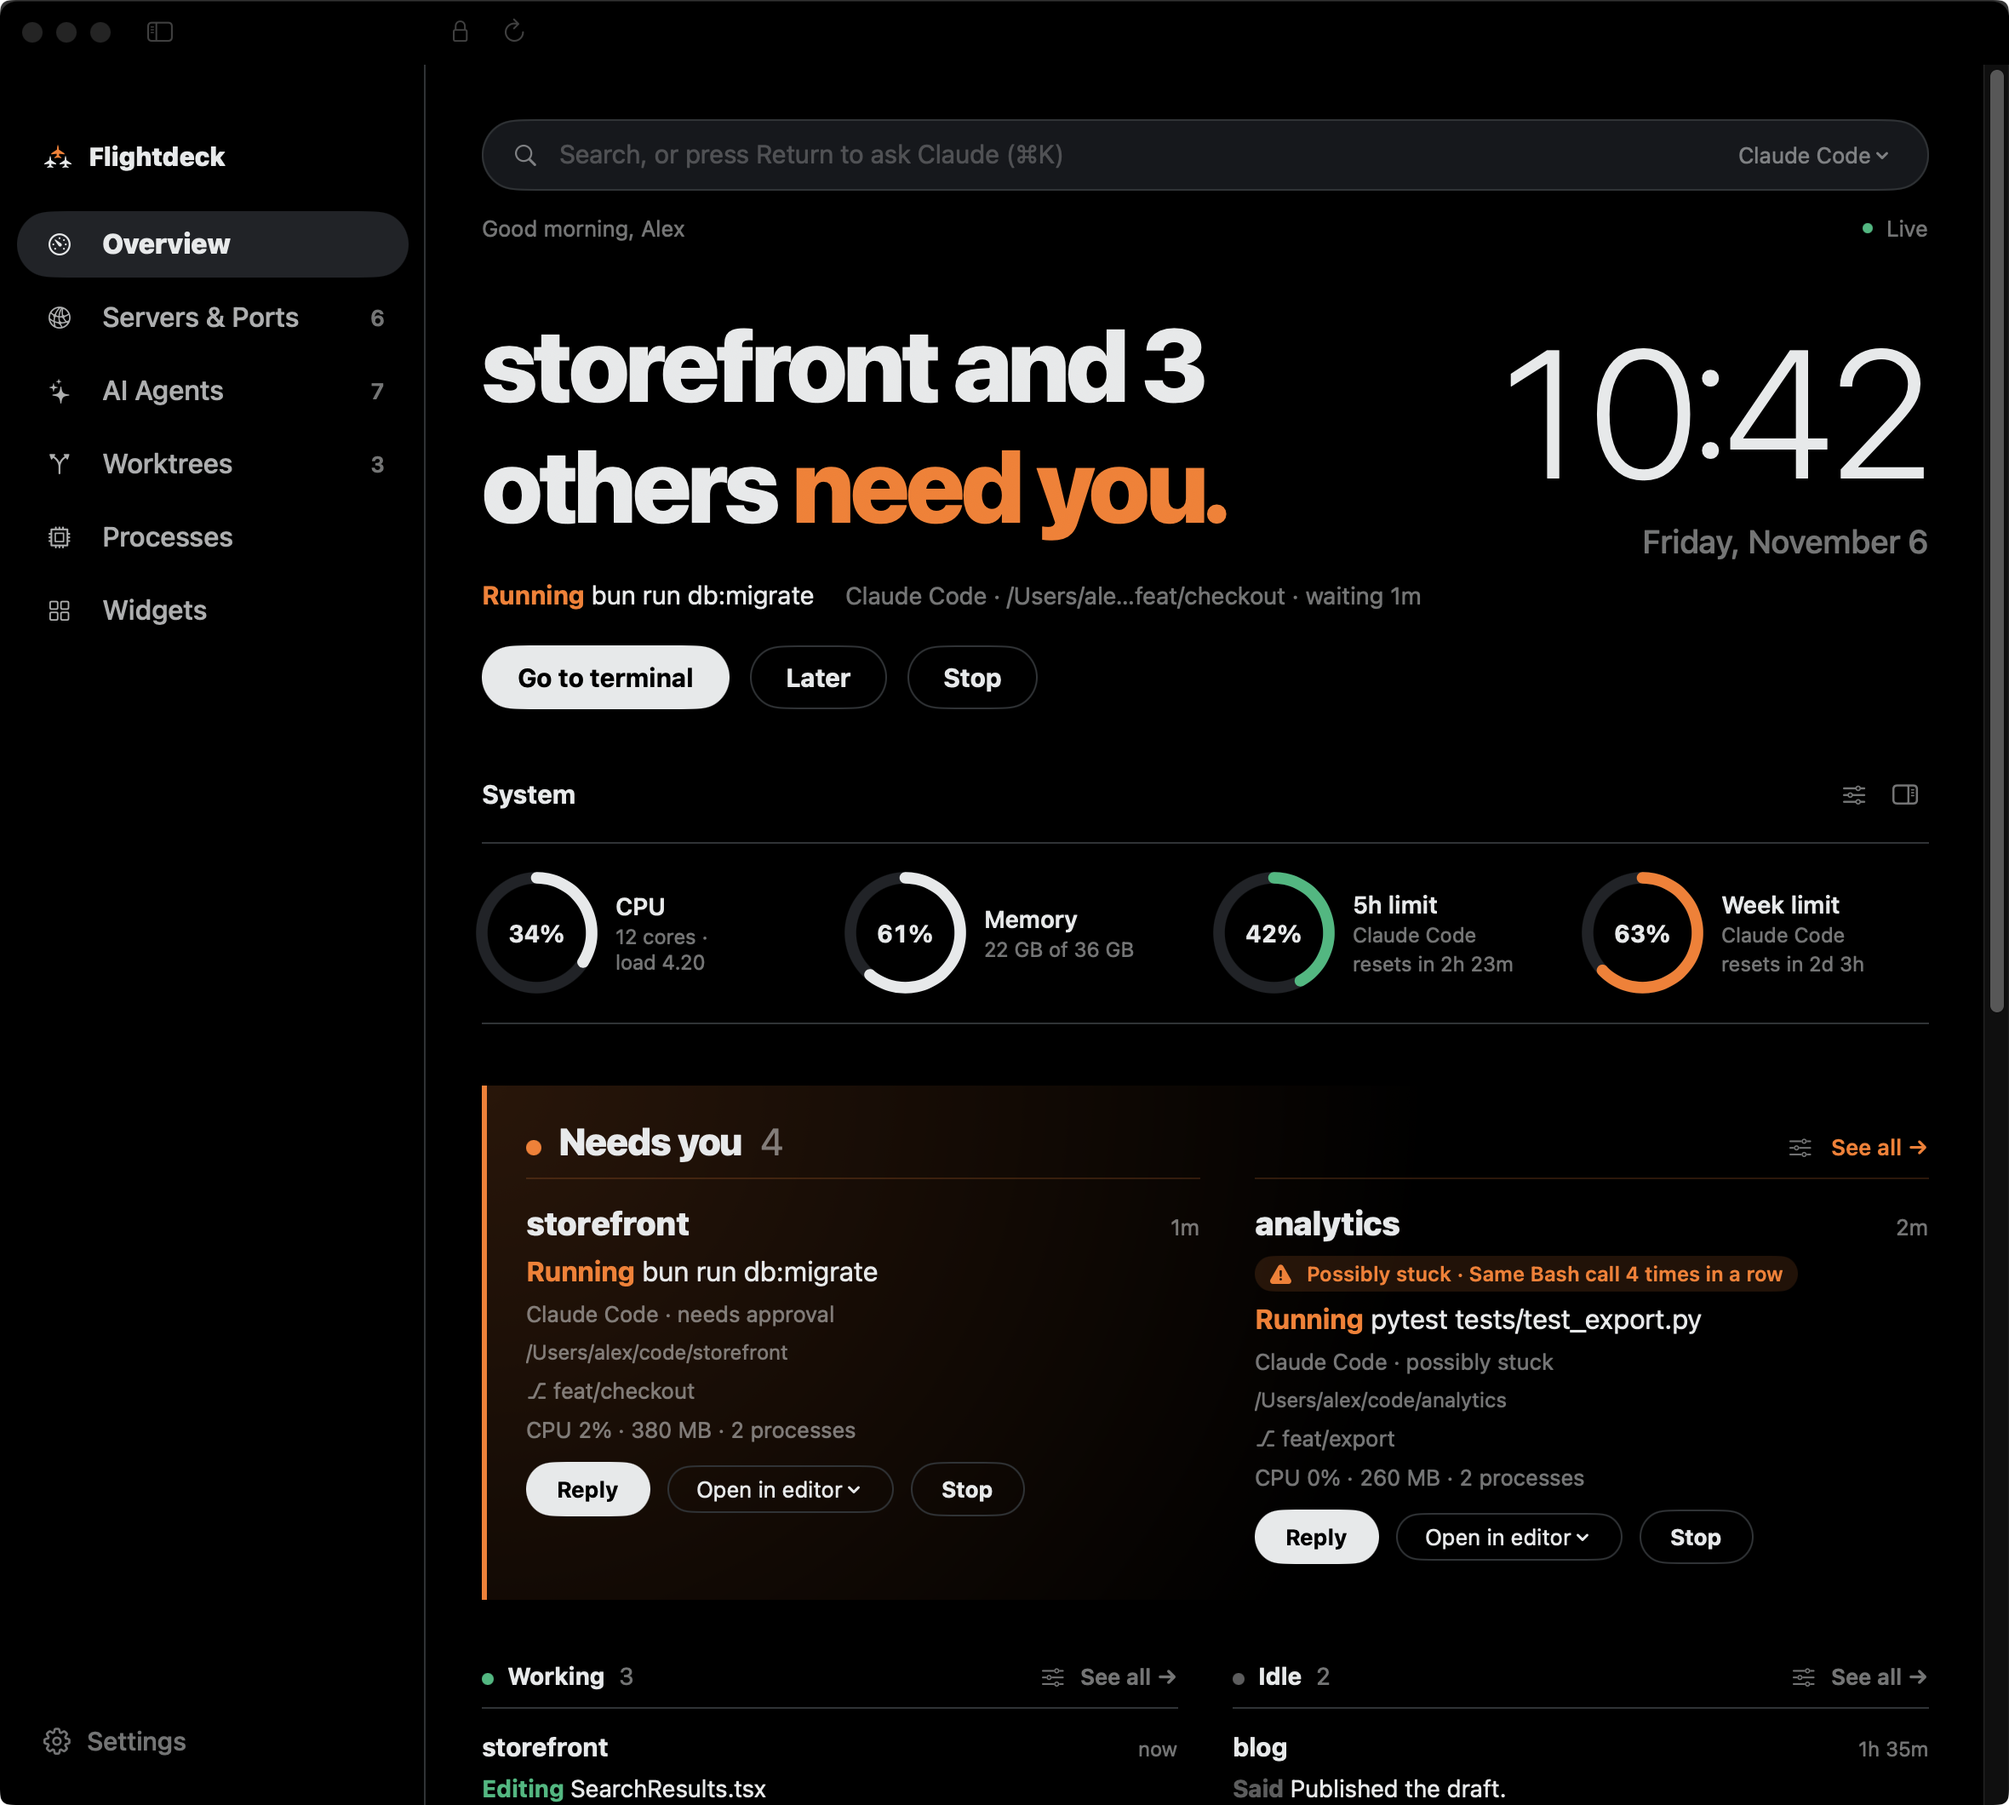
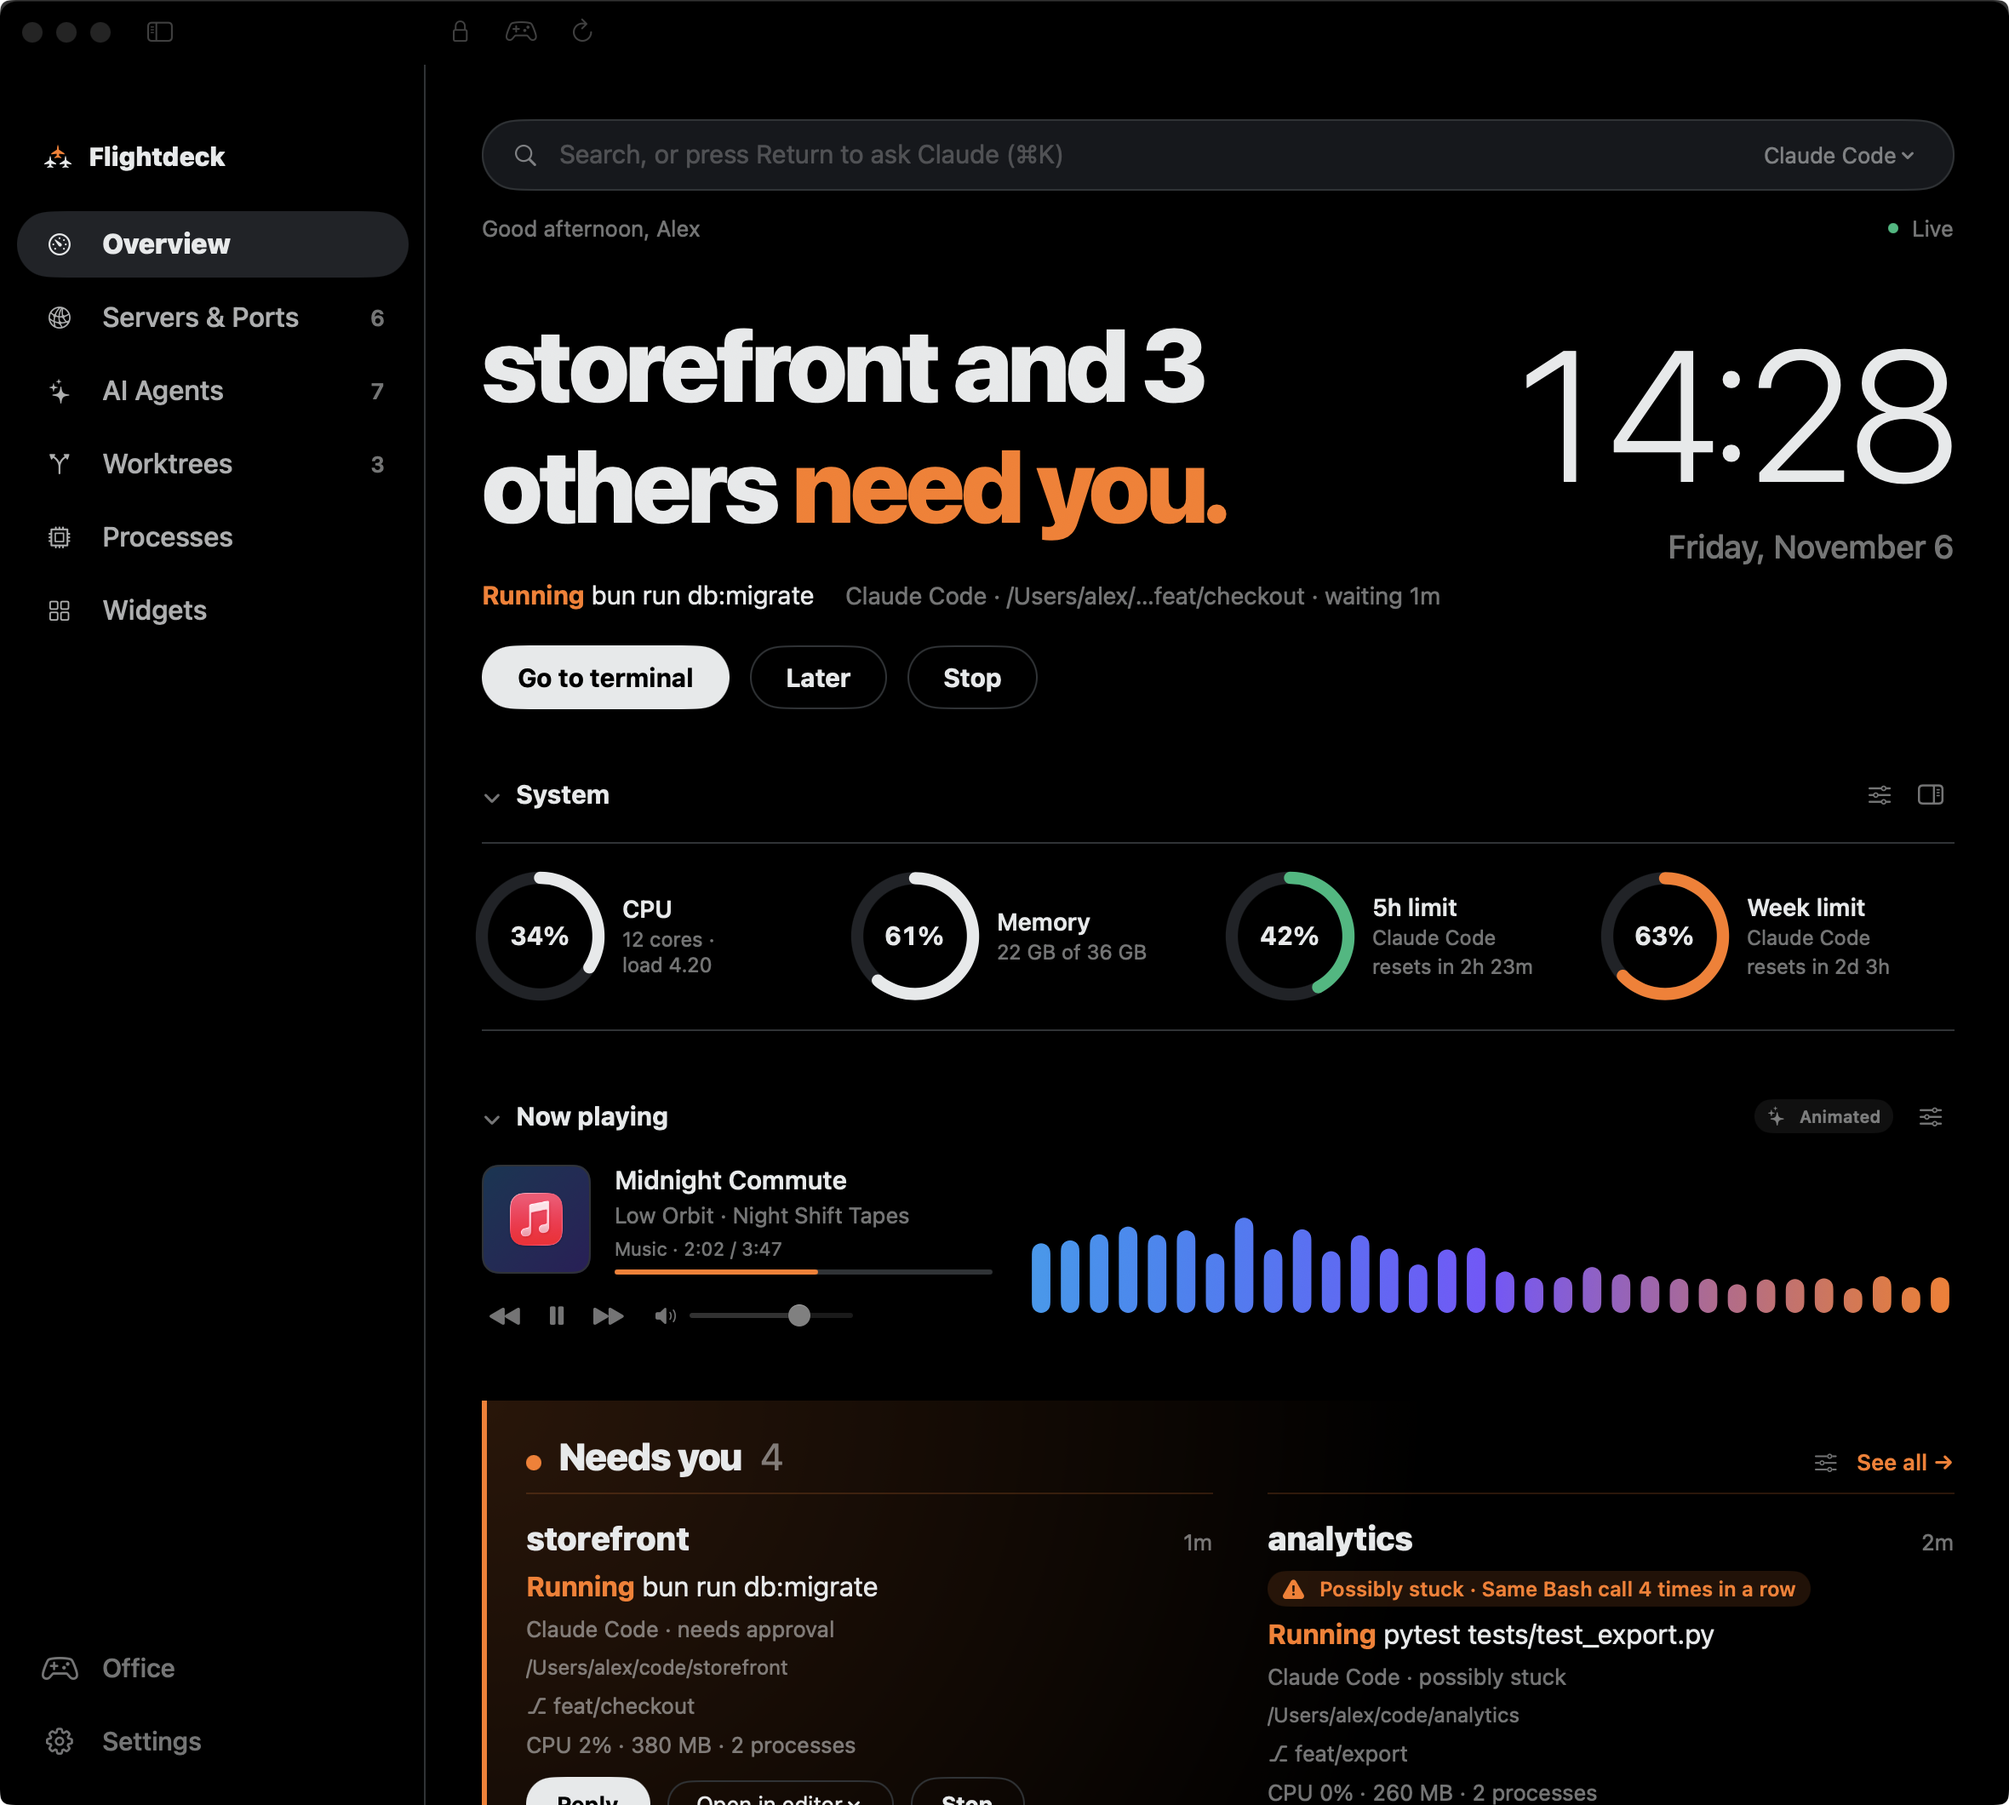
Describe the Office and Now playing in the README and site
- README features cover the Office (rooms per repo, avatar row, jukebox),
  Now playing (controls, volume, adjust menu, opt-in live audio) and
  collapsible System and Now playing sections
- Site tour gains a Now playing pin; new Office and Now playing feature rows
- Retake the overview at 2x with Now playing, and add 2x Office and
  Now playing shots

diff --git a/site/app/page.tsx b/site/app/page.tsx
@@ -36,7 +36,13 @@ const PINS = [
   },
   {
     x: 22,
-    y: 63,
+    y: 62,
+    title: "Now playing",
+    body: "What's playing in any player, with previous, play/pause, next and a volume slider for Spotify and Music. Collapse it, or System, when you need the room.",
+  },
+  {
+    x: 22,
+    y: 80.5,
     title: "Needs you",
     body: "Every waiting agent: what it said or wants to run, its folder, branch, CPU and memory. Agents that look stuck get a badge with the reason. Hover a card and clear it until that agent does something new.",
   },
@@ -44,7 +50,7 @@ const PINS = [
     x: 10,
     y: 40,
     title: "Pages",
-    body: "Servers and ports, AI agents, worktrees, processes and widgets. Settings sits at the bottom of the sidebar.",
+    body: "Servers and ports, AI agents, worktrees, processes and widgets. The Office and Settings sit at the bottom of the sidebar.",
   },
 ];
 
@@ -54,6 +60,18 @@ const FEATURE_ROWS = [
     title: "Every agent, one glance.",
     body: "Which folders Claude Code, Codex, Gemini CLI, Cursor Agent, opencode and Aider are working in, and whether each is working, waiting for approval, waiting for you or looks stuck. Go to terminal or stop any of them from its row. Token spend per project and model is there too if you turn it on.",
     image: { src: "/screenshots/agents.png", alt: "AI agents page with usage limits", width: 1180, height: 917 },
+  },
+  {
+    label: "Office",
+    title: "Walk around your agents.",
+    body: "A pixel-art office with a room per repo, where every agent is posed by what it's doing. Agents that need you wait as bouncing avatars along the top, and a jukebox plays what's on. Walk up to an agent to go to its terminal or stop it.",
+    image: { src: "/screenshots/office.png", alt: "Office with a room per repo, waiting agents as avatars at the top and a jukebox", width: 1180, height: 860 },
+  },
+  {
+    label: "Now playing",
+    title: "Music in your theme.",
+    body: "What's playing in any player, with a visualiser in your theme's colours. The adjust menu switches between Minimal and Expanded, five visualiser styles and six palettes. Live audio levels are opt-in; otherwise the bars follow play and pause.",
+    image: { src: "/screenshots/now-playing.png", alt: "Now playing with player controls and the adjust menu open", width: 1024, height: 362 },
   },
   {
     label: "Worktrees",
@@ -150,7 +168,7 @@ export default function Home() {
             <Image
               className="shot"
               src="/screenshots/overview.png"
-              alt="Flightdeck overview with numbered labels: search and ask, who needs you, go to terminal, clock, system and limits, the Needs you list and pages"
+              alt="Flightdeck overview with numbered labels: search and ask, who needs you, go to terminal, clock, system and limits, now playing, the Needs you list and pages"
               width={1180}
               height={1060}
               priority

diff --git a/README.md b/README.md
@@ -49,11 +49,15 @@ brew install --cask magnuspladsen/tap/flightdeck
 |---|---|
 | <img src="docs/screenshots/worktrees.png" alt="Worktrees page with stale worktrees and Clean up" width="420"> | <img src="docs/screenshots/settings.png" alt="Settings page in the dashboard" width="420"> |
 
+| The Office | Now playing |
+|---|---|
+| <img src="docs/screenshots/office.png" alt="Office: pixel-art rooms per repo, waiting agents as avatars at the top and a jukebox" width="420"> | <img src="docs/screenshots/now-playing.png" alt="Now playing with player controls and the adjust menu" width="420"> |
+
 Screenshots use demo data: start the app with `FLIGHTDECK_DEMO=1` to see the same.
 
 ## Features
 
-- **System**: CPU, memory, network and disk, with live sparklines.
+- **System**: CPU, memory, network and disk, with live sparklines. Collapse the section when you don't need it.
 - **Dev servers**: every listening port mapped to its git project, branch and worktree, with the framework detected (e.g. "Next.js · shop · worktree checkout · :3000"). Open in browser, editor or terminal, or stop the process.
 - **AI agents**: which folders Claude Code, Codex and other agents are working in, and whether each is working, waiting for approval or waiting for you. Agents that look stuck (e.g. the same tool call over and over) get a badge with the reason and count as needing you. Cards can show CPU and memory for the agent and everything it started.
 - **Agent controls**: Go to terminal focuses the agent's own Ghostty, iTerm2, Terminal or tmux tab; Stop interrupts it. Press ⌃⌥N anywhere to jump to the next agent that needs you (change the shortcut in Settings › General).
@@ -62,6 +66,8 @@ Screenshots use demo data: start the app with `FLIGHTDECK_DEMO=1` to see the sam
 - **Usage limits**: Codex 5h and weekly limits from local logs; Claude token counts from local logs, and optionally Claude limit percentages.
 - **Token spend**: optional, off by default. Estimated cost per project and model from Claude Code and Codex logs, with a daily budget alert. Turn it on in Settings › AI.
 - **Ask Claude**: type a question in the overview's search bar and press Return, or press ⌘K anywhere in the dashboard. The answer opens in a palette with follow-ups, and agents it names open their terminal in one click. It runs your installed `claude` CLI with read-only tools and a snapshot of what the dashboard shows.
+- **Office**: a walkable pixel-art office with a room per repo, where each agent is posed by what it's doing. Agents that need you show as bouncing avatars along the top, and a jukebox plays what's on. Walk up to an agent to go to its terminal or stop it. Open it from Office in the sidebar or the Visualize button.
+- **Now playing**: what's playing in any player, with a visualiser in your theme's colours. Previous, play/pause and next, plus a volume slider for Spotify and Music. The adjust menu switches between Minimal and Expanded, five visualiser styles and six palettes. Live audio levels are opt-in; otherwise the bars follow play and pause. The section collapses like System.
 - **Custom widgets**: shell commands shown as dashboard tiles.
 
 Ships 13 layouts and 22 themes, and any theme works on any layout. Ignition is the default layout (a near-black agent board that leads with whichever agent needs you); the others are macOS, Terminal, Glass, Bento, Cockpit, Editorial, Neon, Agent focus, Projects, Zen, Mission control and Timeline. Each layout switches to the theme it was designed in, and Settings › Appearance lets you pick another theme (Clean Dark, Clean Light, "match system", Tokyo Night, Catppuccin, Dracula and other coding palettes). Built-in themes are read-only: copy one to make your own theme, which you can recolour, rename, duplicate and delete.
